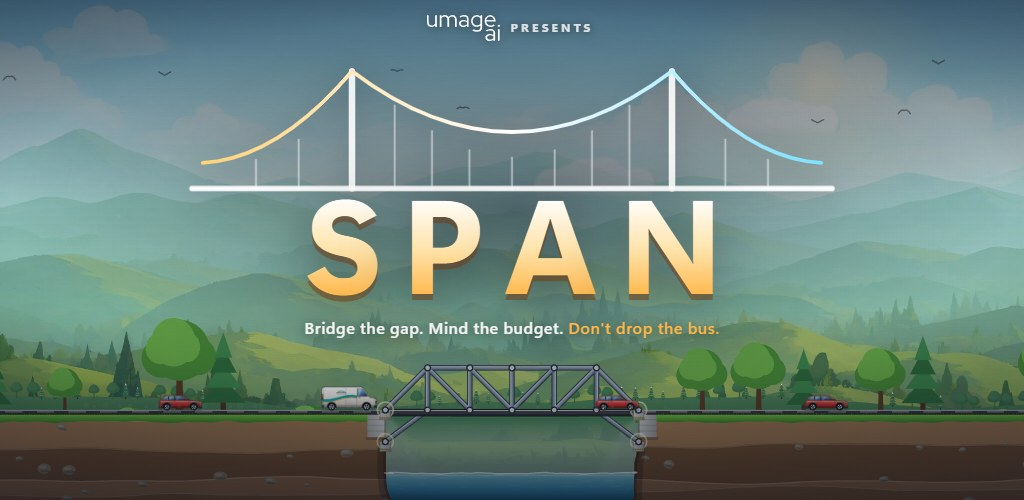
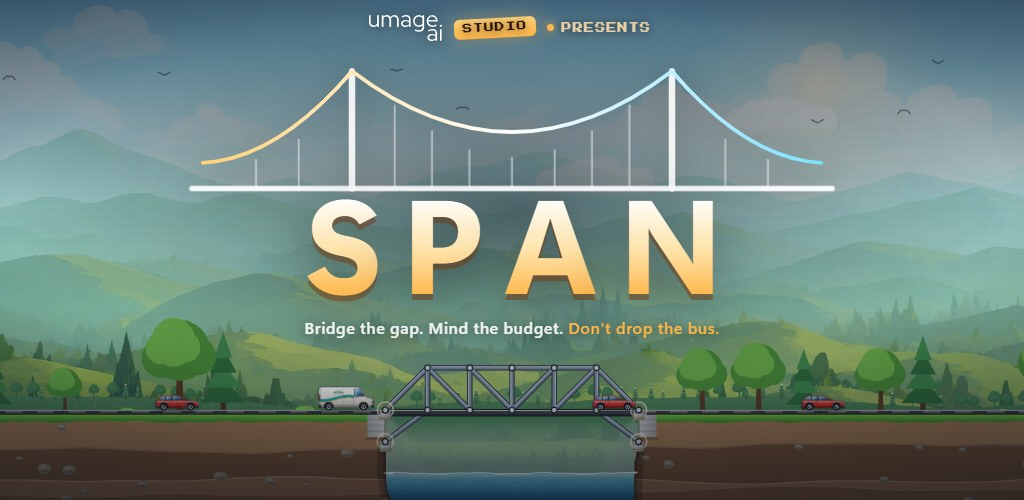
Release v1.5.1: umage.ai Studio branding
Claude-Session: https://claude.ai/code/session_01MkzyTLmg38gqToypv1apxj

diff --git a/js/features/about-data.js b/js/features/about-data.js
@@ -4,12 +4,12 @@
   'use strict';
   const BG = (root.BG = root.BG || {});
   BG.AboutData = {
-    "version": "v1.5.0",
+    "version": "v1.5.1",
     "versionFrom": "tag",
-    "released": "2026-10-22",
+    "released": "2026-10-23",
     "firstCommit": "2026-10-02",
-    "asOf": "2026-10-22",
-    "commits": 72,
+    "asOf": "2026-10-23",
+    "commits": 76,
     "levels": 102,
     "campaigns": 3,
     "campaignLevels": {
@@ -25,13 +25,13 @@
     "browserSuites": 15,
     "languages": 2,
     "jsLines": {
-      "total": 38925,
-      "game": 28296,
-      "tools": 10629
+      "total": 38928,
+      "game": 28298,
+      "tools": 10630
     },
     "jsFiles": 100,
     "repo": "https://github.com/umage-ai/SpanGame",
-    "releaseNotes": "https://github.com/umage-ai/SpanGame/releases/tag/v1.5.0",
+    "releaseNotes": "https://github.com/umage-ai/SpanGame/releases/tag/v1.5.1",
     "agentic": {
       "agents": 103,
       "workflows": 15,

diff --git a/sw.js b/sw.js
@@ -8,7 +8,7 @@
 'use strict';
 
 // <precache> generated by tools/gen-precache.js - do not edit by hand
-const VERSION = '9e3faee66aa7';
+const VERSION = '608db21f40de';
 const PRECACHE = [
   'index.html',
   'manifest.webmanifest',
